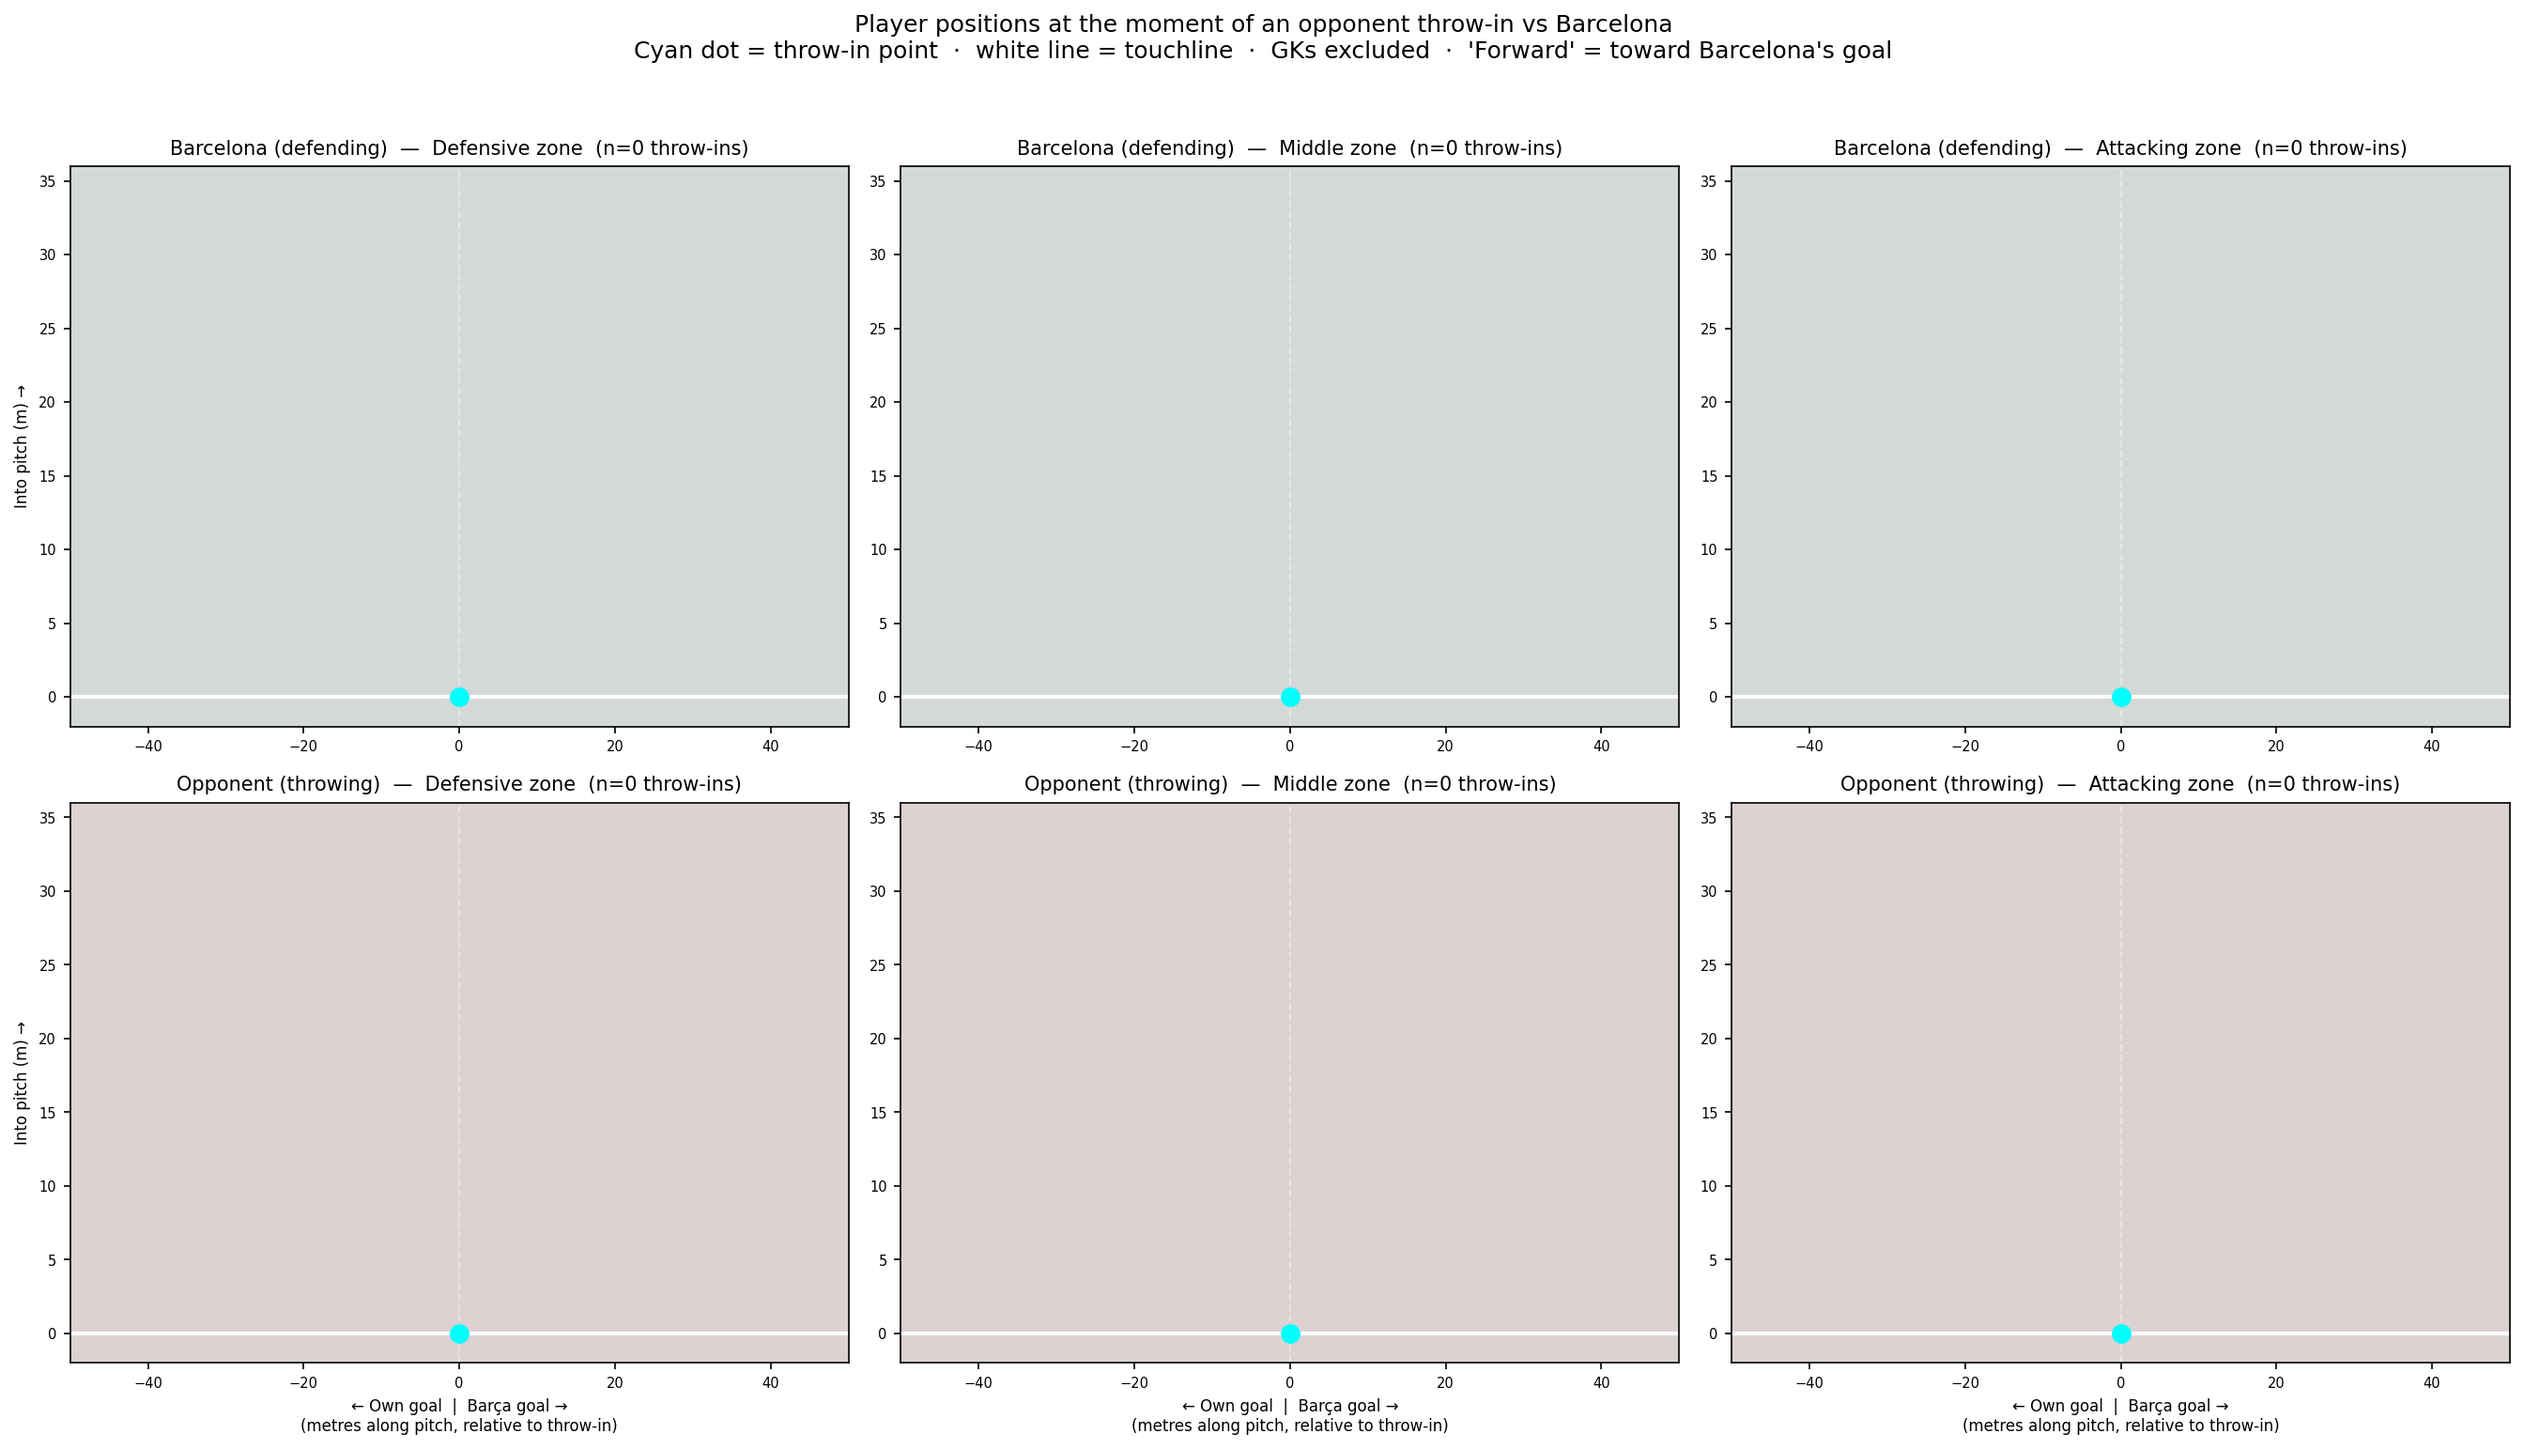
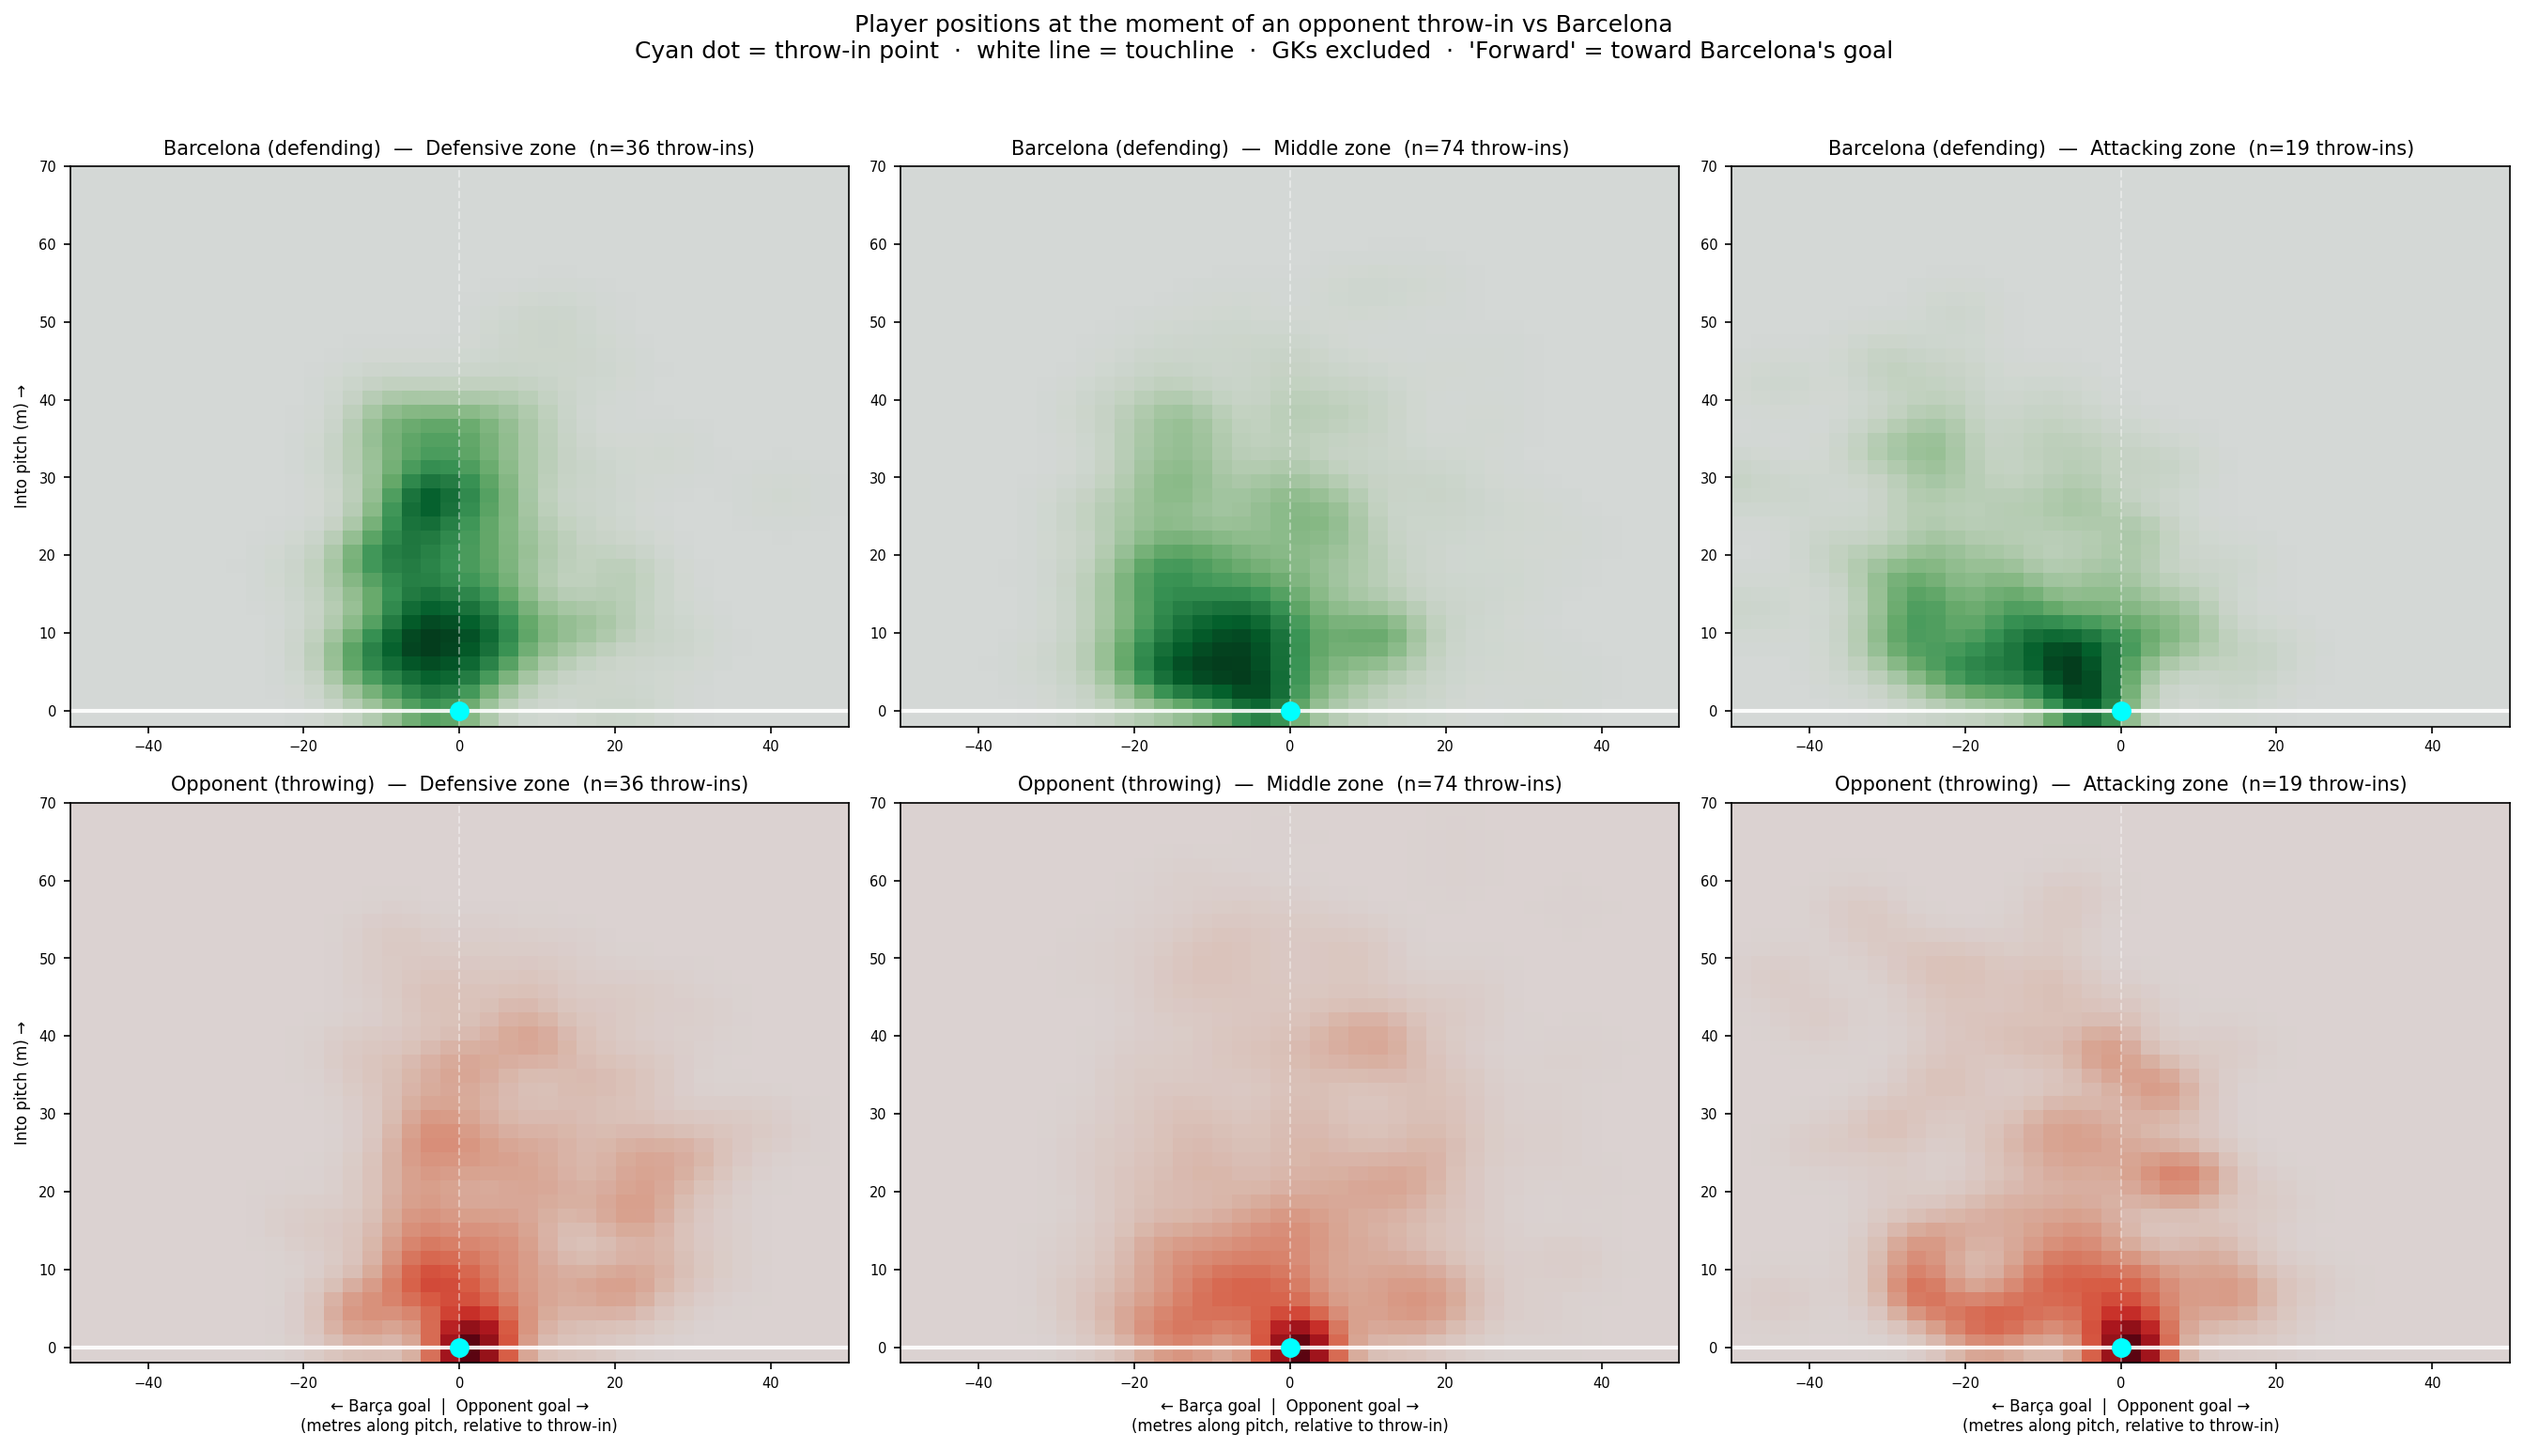
added def throwins positionig heatmap

diff --git a/src/throwins/def_throwins/def_throwins_positioning.py b/src/throwins/def_throwins/def_throwins_positioning.py
@@ -7,7 +7,7 @@ SkillCorner tracking data gives all 22 player positions at the frame of each
 throw-in.  Positions are normalized so every throw-in appears to come from
 the same touchline point:
 
-    (dx, dy) where dx > 0 = toward Barcelona's goal  (opponent's attacking direction)
+    (dx, dy) where dx < 0 = toward Barcelona's goal  (Barcelona's goal on the left)
               and  dy > 0 = into the pitch             (away from touchline)
 
 Three separate heatmaps per team for Defensive / Middle / Attacking zones
@@ -54,11 +54,12 @@ _HALF_WID = 34.0
 ZONE_ORDER = ["Defensive", "Middle", "Attacking"]
 
 _TI_START_TYPES = frozenset({
-    "throw_in_reception", "throw_in_taken", "throw_in", "throwin", "attacking_throw_in",
+    "throw_in_reception",
+    "throw_in_interception",
 })
 
 _DX = (-50, 50)
-_DY = (-2,  36)
+_DY = (-2,  70)
 _N_BINS = 40
 
 
@@ -105,11 +106,17 @@ def parse_player_index(meta: dict) -> dict[int, dict]:
         pid = p.get("id") or p.get("player_id")
         if pid is None:
             continue
-        index[int(pid)] = {
-            "team_id": p.get("team_id"),
-            "is_gk":   (p.get("position", {}).get("name", "") == "Goalkeeper"
-                        if isinstance(p.get("position"), dict) else False),
-        }
+        role = p.get("player_role", {})
+        is_gk = isinstance(role, dict) and (
+            "goalkeeper" in role.get("name", "").lower()
+            or "goalkeeper" in role.get("position_group", "").lower()
+        )
+        entry = {"team_id": p.get("team_id"), "is_gk": is_gk}
+        index[int(pid)] = entry
+        # Tracking frames reference players by trackable_object, not id
+        to = p.get("trackable_object")
+        if to is not None:
+            index[int(to)] = entry
     return index
 
 
@@ -160,7 +167,7 @@ def _normalize(x: float, y: float,
 
     Opponent attacks in the opposite direction to Barcelona, so x_sign is negated.
     """
-    x_sign = -1.0 if barca_attacks_pos else 1.0   # opponent's forward direction
+    x_sign = 1.0 if barca_attacks_pos else -1.0   # Barcelona's goal on the left (negative dx)
     y_sign = -1.0 if y_ti > 0 else 1.0            # always into pitch = +dy
     return (x - x_ti) * x_sign, (y - y_ti) * y_sign
 
@@ -173,44 +180,30 @@ def collect_positions() -> dict[str, dict]:
     Structure: {zone: {"barca": [(dx, dy), ...], "opp": [...], "count": int}}
     """
     result = {z: {"barca": [], "opp": [], "count": 0} for z in ZONE_ORDER}
-    all_types: set[str] = set()
 
-    games_checked = 0
     for _, row in _read_matches_df().iterrows():
         if pd.isna(row.get("skillcorner")):
             continue
         sc_id = int(row["skillcorner"])
         if _zip_path(sc_id) is None:
-            print(f"  [{sc_id}] zip not found, skipping")
             continue
 
         meta         = read_match_meta(sc_id)
         player_index = parse_player_index(meta)
         barca_tid    = find_barca_tid(meta)
         if barca_tid is None:
-            print(f"  [{sc_id}] Barcelona team ID not found in meta, skipping")
             continue
 
         dyn = read_dynamic_events(sc_id)
         if dyn is None:
-            print(f"  [{sc_id}] dynamic events not found, skipping")
             continue
 
-        games_checked += 1
-        game_types = dyn["start_type"].dropna().astype(str).str.casefold().unique()
-        all_types.update(game_types)
-
-        # Opponent throw-ins: team_id is NOT Barcelona
-        # Cast team_id to int to avoid str/int mismatches
         dyn_copy = dyn.copy()
         dyn_copy["team_id"] = pd.to_numeric(dyn_copy["team_id"], errors="coerce")
         ti_rows = dyn_copy[
             dyn_copy["start_type"].astype(str).str.casefold().isin(_TI_START_TYPES)
             & (dyn_copy["team_id"] != barca_tid)
         ].dropna(subset=["frame_start"])
-
-        print(f"  [{sc_id}] barca_tid={barca_tid}  dyn rows={len(dyn)}  "
-              f"start_types={sorted(game_types)}  throw-in rows={len(ti_rows)}")
 
         if ti_rows.empty:
             continue
@@ -259,11 +252,6 @@ def collect_positions() -> dict[str, dict]:
             target.discard(fid)
             if not target:
                 break
-
-    print(f"\nGames with SkillCorner data checked: {games_checked}")
-    print(f"All start_types seen: {sorted(all_types)}")
-    if not any(result[z]["barca"] for z in ZONE_ORDER):
-        print("No opponent throw-in frames matched. Check start_types above.")
 
     return result
 
@@ -324,7 +312,7 @@ def plot_positioning_heatmaps(positions: dict[str, dict], save: bool = True) -> 
                 ax.set_ylabel("Into pitch (m) →", fontsize=8)
             if row == 1:
                 ax.set_xlabel(
-                    "← Own goal  |  Barça goal →\n(metres along pitch, relative to throw-in)",
+                    "← Barça goal  |  Opponent goal →\n(metres along pitch, relative to throw-in)",
                     fontsize=8,
                 )
             ax.tick_params(labelsize=7)

diff --git a/src/throwins/atc_throwins/throwins_positioning.py b/src/throwins/atc_throwins/throwins_positioning.py
@@ -57,7 +57,7 @@ ZONE_ORDER = ["Defensive", "Middle", "Attacking"]
 # SkillCorner start_type values that identify a throw-in being taken.
 # The script prints available types if none match, aiding discovery.
 _TI_START_TYPES = frozenset({
-    "throw_in_taken", "throw_in", "throwin", "attacking_throw_in",
+    "throw_in_reception",
 })
 
 # Heatmap display range in normalised coordinates (metres)
@@ -109,11 +109,16 @@ def parse_player_index(meta: dict) -> dict[int, dict]:
         pid = p.get("id") or p.get("player_id")
         if pid is None:
             continue
-        index[int(pid)] = {
-            "team_id": p.get("team_id"),
-            "is_gk":   (p.get("position", {}).get("name", "") == "Goalkeeper"
-                        if isinstance(p.get("position"), dict) else False),
-        }
+        role = p.get("player_role", {})
+        is_gk = isinstance(role, dict) and (
+            "goalkeeper" in role.get("name", "").lower()
+            or "goalkeeper" in role.get("position_group", "").lower()
+        )
+        entry = {"team_id": p.get("team_id"), "is_gk": is_gk}
+        index[int(pid)] = entry
+        to = p.get("trackable_object")
+        if to is not None:
+            index[int(to)] = entry
     return index
 
 
